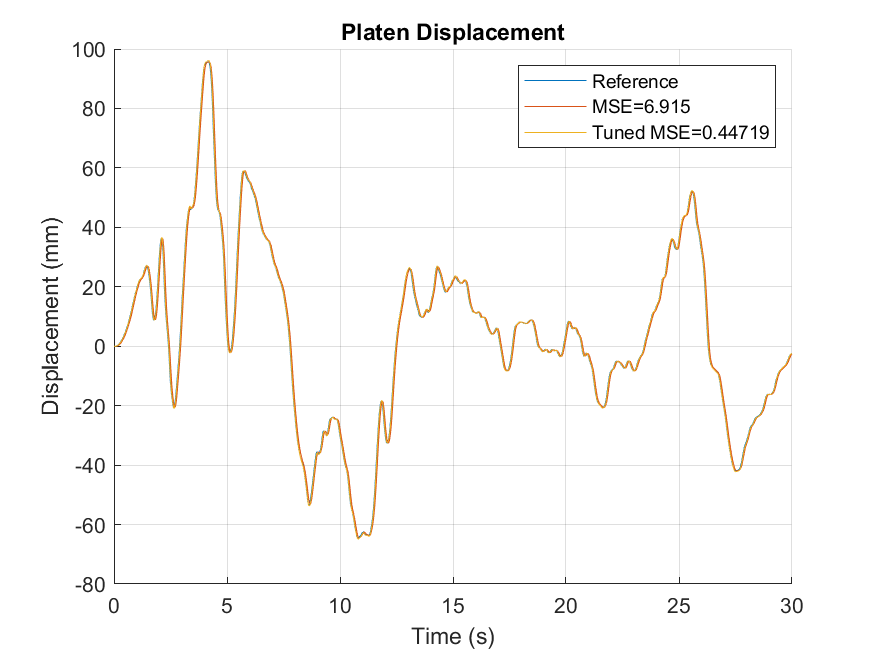
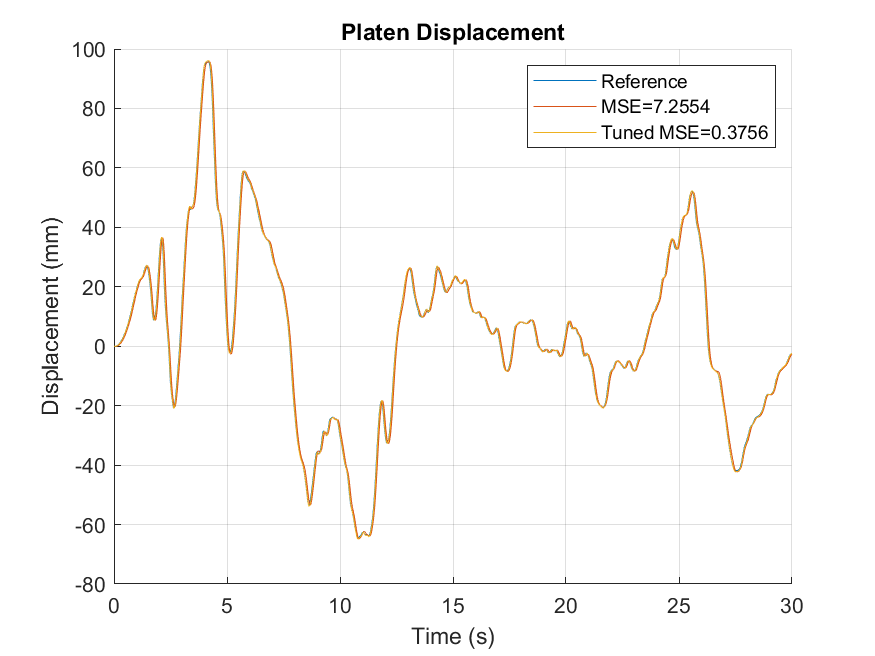
fixed bug (Missing parenteses in one of the transfer functions)

diff --git a/uniaxial_table_model/simulation_and_plotting.m b/uniaxial_table_model/simulation_and_plotting.m
@@ -7,7 +7,7 @@ clc
 k_p=1.2993/1e-2; %SI units %Pgain (kp=1.2993 V/cm) 
 G_c = tf(k_p,1);
 
-[s,G_T,G_1,G_2,G_T1 ,G_21 ,G_svq,G_csv,G_x2_x1,G_x1_xT,G_xT_Fp,G_Fp_xref,G_xT_xref,G_x1_xref,G_x2_xT , G_Fp_isv , Ass , Bss ]=Compute_TFs_and_StateSpace(G_c);
+[s,G_T,G_1,G_2,G_T1 ,G_21 ,G_svq,G_csv,G_x2_x1,G_x1_xT,G_xT_Fp,G_Fp_xref,G_xT_xref,G_x1_xref,G_x2_xT , G_Fp_isv  ]=Compute_TFs(G_c); %_and_StateSpace
 
 % Limits
 lim_displacement = 100 % mm
@@ -42,7 +42,10 @@ ax7 = axes(fig7); hold(ax7, 'on');
 % First plot
 axes(ax1); % Activate the existing axes
 title('Bode of G\_xT\_xref'); 
-bodeplot(G_xT_xref);
+opts1=bodeoptions('cstprefs');
+opts1.FreqUnits = 'Hz';
+opts1.XLim={[1 51]};
+bodeplot(G_xT_xref,opts1);
 grid on
 
 
@@ -135,10 +138,7 @@ hold on
 title('Force to Platen'); 
 legend();
 F_p_isv = lsim(G_Fp_isv,   i_sv  , t_vector,'foh');
-F_p_xT =  lsim(1/G_xT_Fp,   x_T*1e-3  , t_vector,'foh');
 plot(t_vector,F_p_isv,"DisplayName","Default")
-plot(t_vector,F_p_xT,"DisplayName","Default")
-plot(t_vector, (1.9751*1e3+2e3)*ddx_ref)
 xlabel('Time (s)'); 
 ylabel('Force (N)');
 
@@ -302,6 +302,13 @@ hold on
 i_sv = lsim(G_c*1e-3  ,   x_ref-x_T ,t_vector,'foh');
 plot(t_vector,i_sv,"DisplayName","Tuned")
 
+%  plot
+axes(ax7); % Activate the existing axes
+hold on
+F_p_isv = lsim(G_Fp_isv,   i_sv  , t_vector,'foh');
+plot(t_vector,F_p_isv,"DisplayName","Default")
+
+
 
 %% Finding Response Spectre for table tuned
 
@@ -367,19 +374,17 @@ mse_RS_x_table_tuned = mean(erro_RS_x_table_tuned.^2)
 %% State Space model
 
 
-% u = Fp
-% y = x_ss
-
-Css= eye(6);
-Dss = 0;
-
-MV = struct(Min=-lim_force,Max=lim_force);
-p = 20;
-m = 3;
-mpcobj = mpc(Plant,Ts,p,m,[],MV);
-
-
-
+% % u = Fp
+% % y = x_ss
+% 
+% Css= eye(6);
+% Dss = 0;
+% 
+% MV = struct(Min=-lim_force,Max=lim_force);
+% p = 20;
+% m = 3;
+% mpcobj = mpc(Plant,Ts,p,m,[],MV);
+% 
 
 
 

diff --git a/uniaxial_table_model/Compute_TFs.m b/uniaxial_table_model/Compute_TFs.m
@@ -63,7 +63,7 @@ G_csv=G_c*G_svq;
 
 G_x2_x1= G_21/G_2;
 G_x1_xT = G_T1*G_2/(G_1*G_2-G_21^2);
-G_xT_Fp = G_1*G_2-G_21^2/(G_T*G_1*G_2-G_T*G_21^2-G_2*G_T1^2);
+G_xT_Fp = (G_1*G_2-G_21^2)/(G_T*G_1*G_2-G_T*G_21^2-G_2*G_T1^2);
 
 G_Fp_xref = G_csv/( k_pl/A + A*s/k_h +G_xT_Fp*(G_csv + A*s));
 
